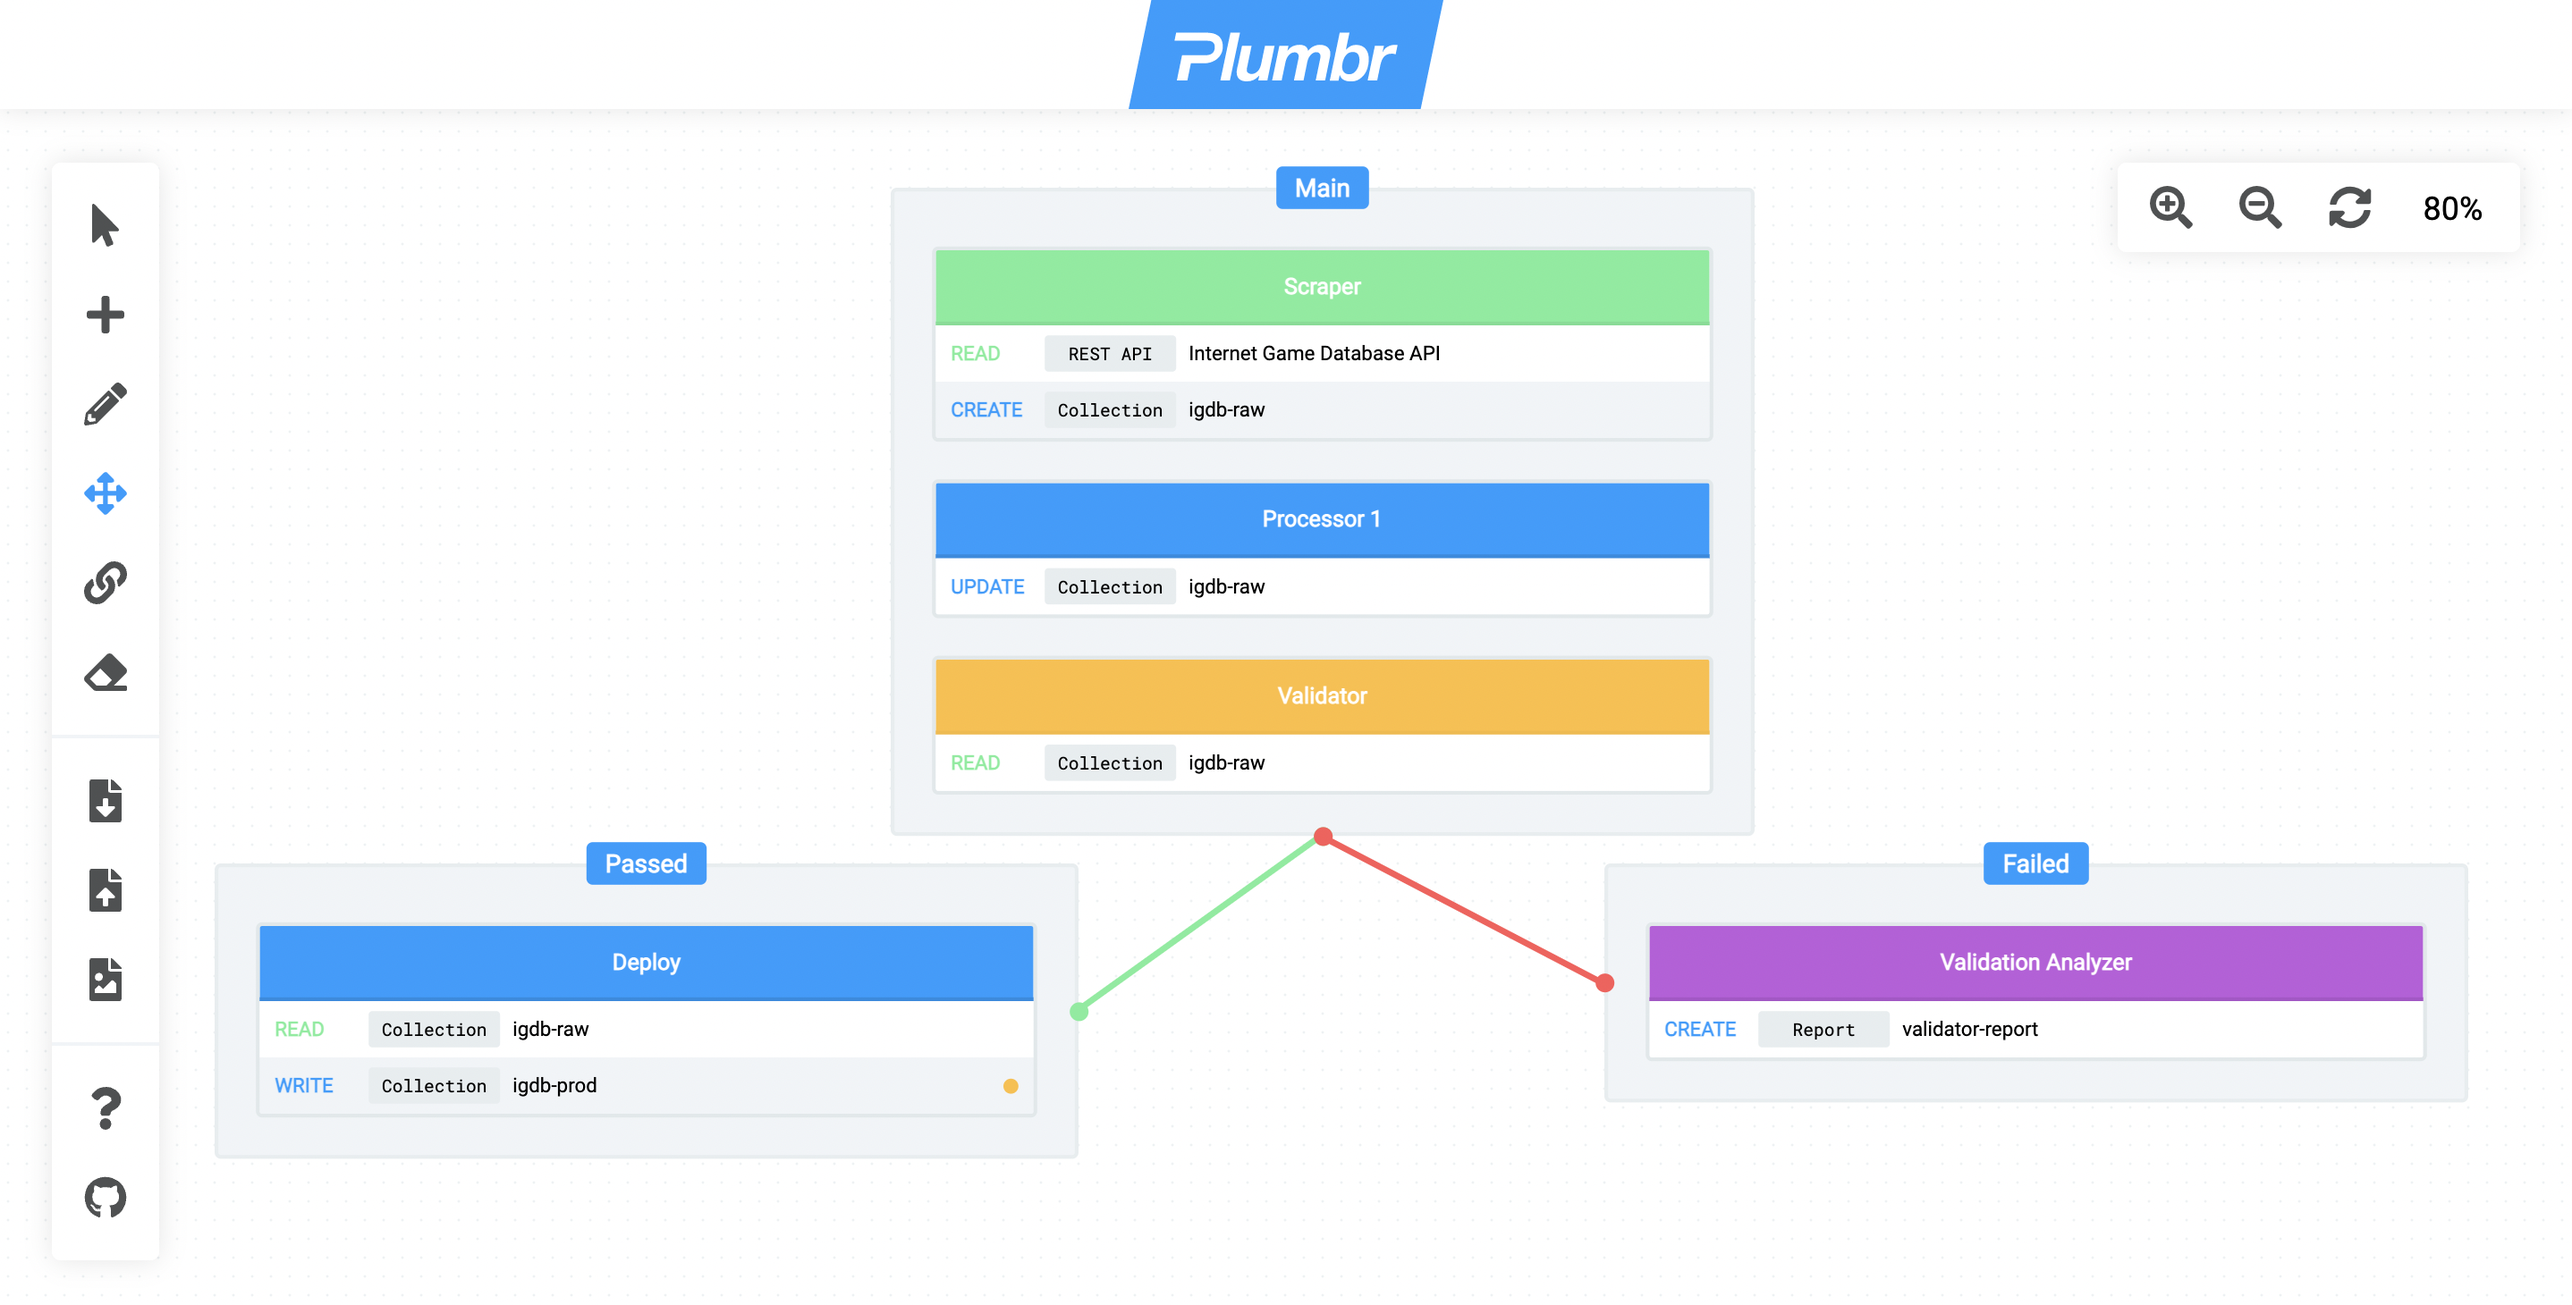
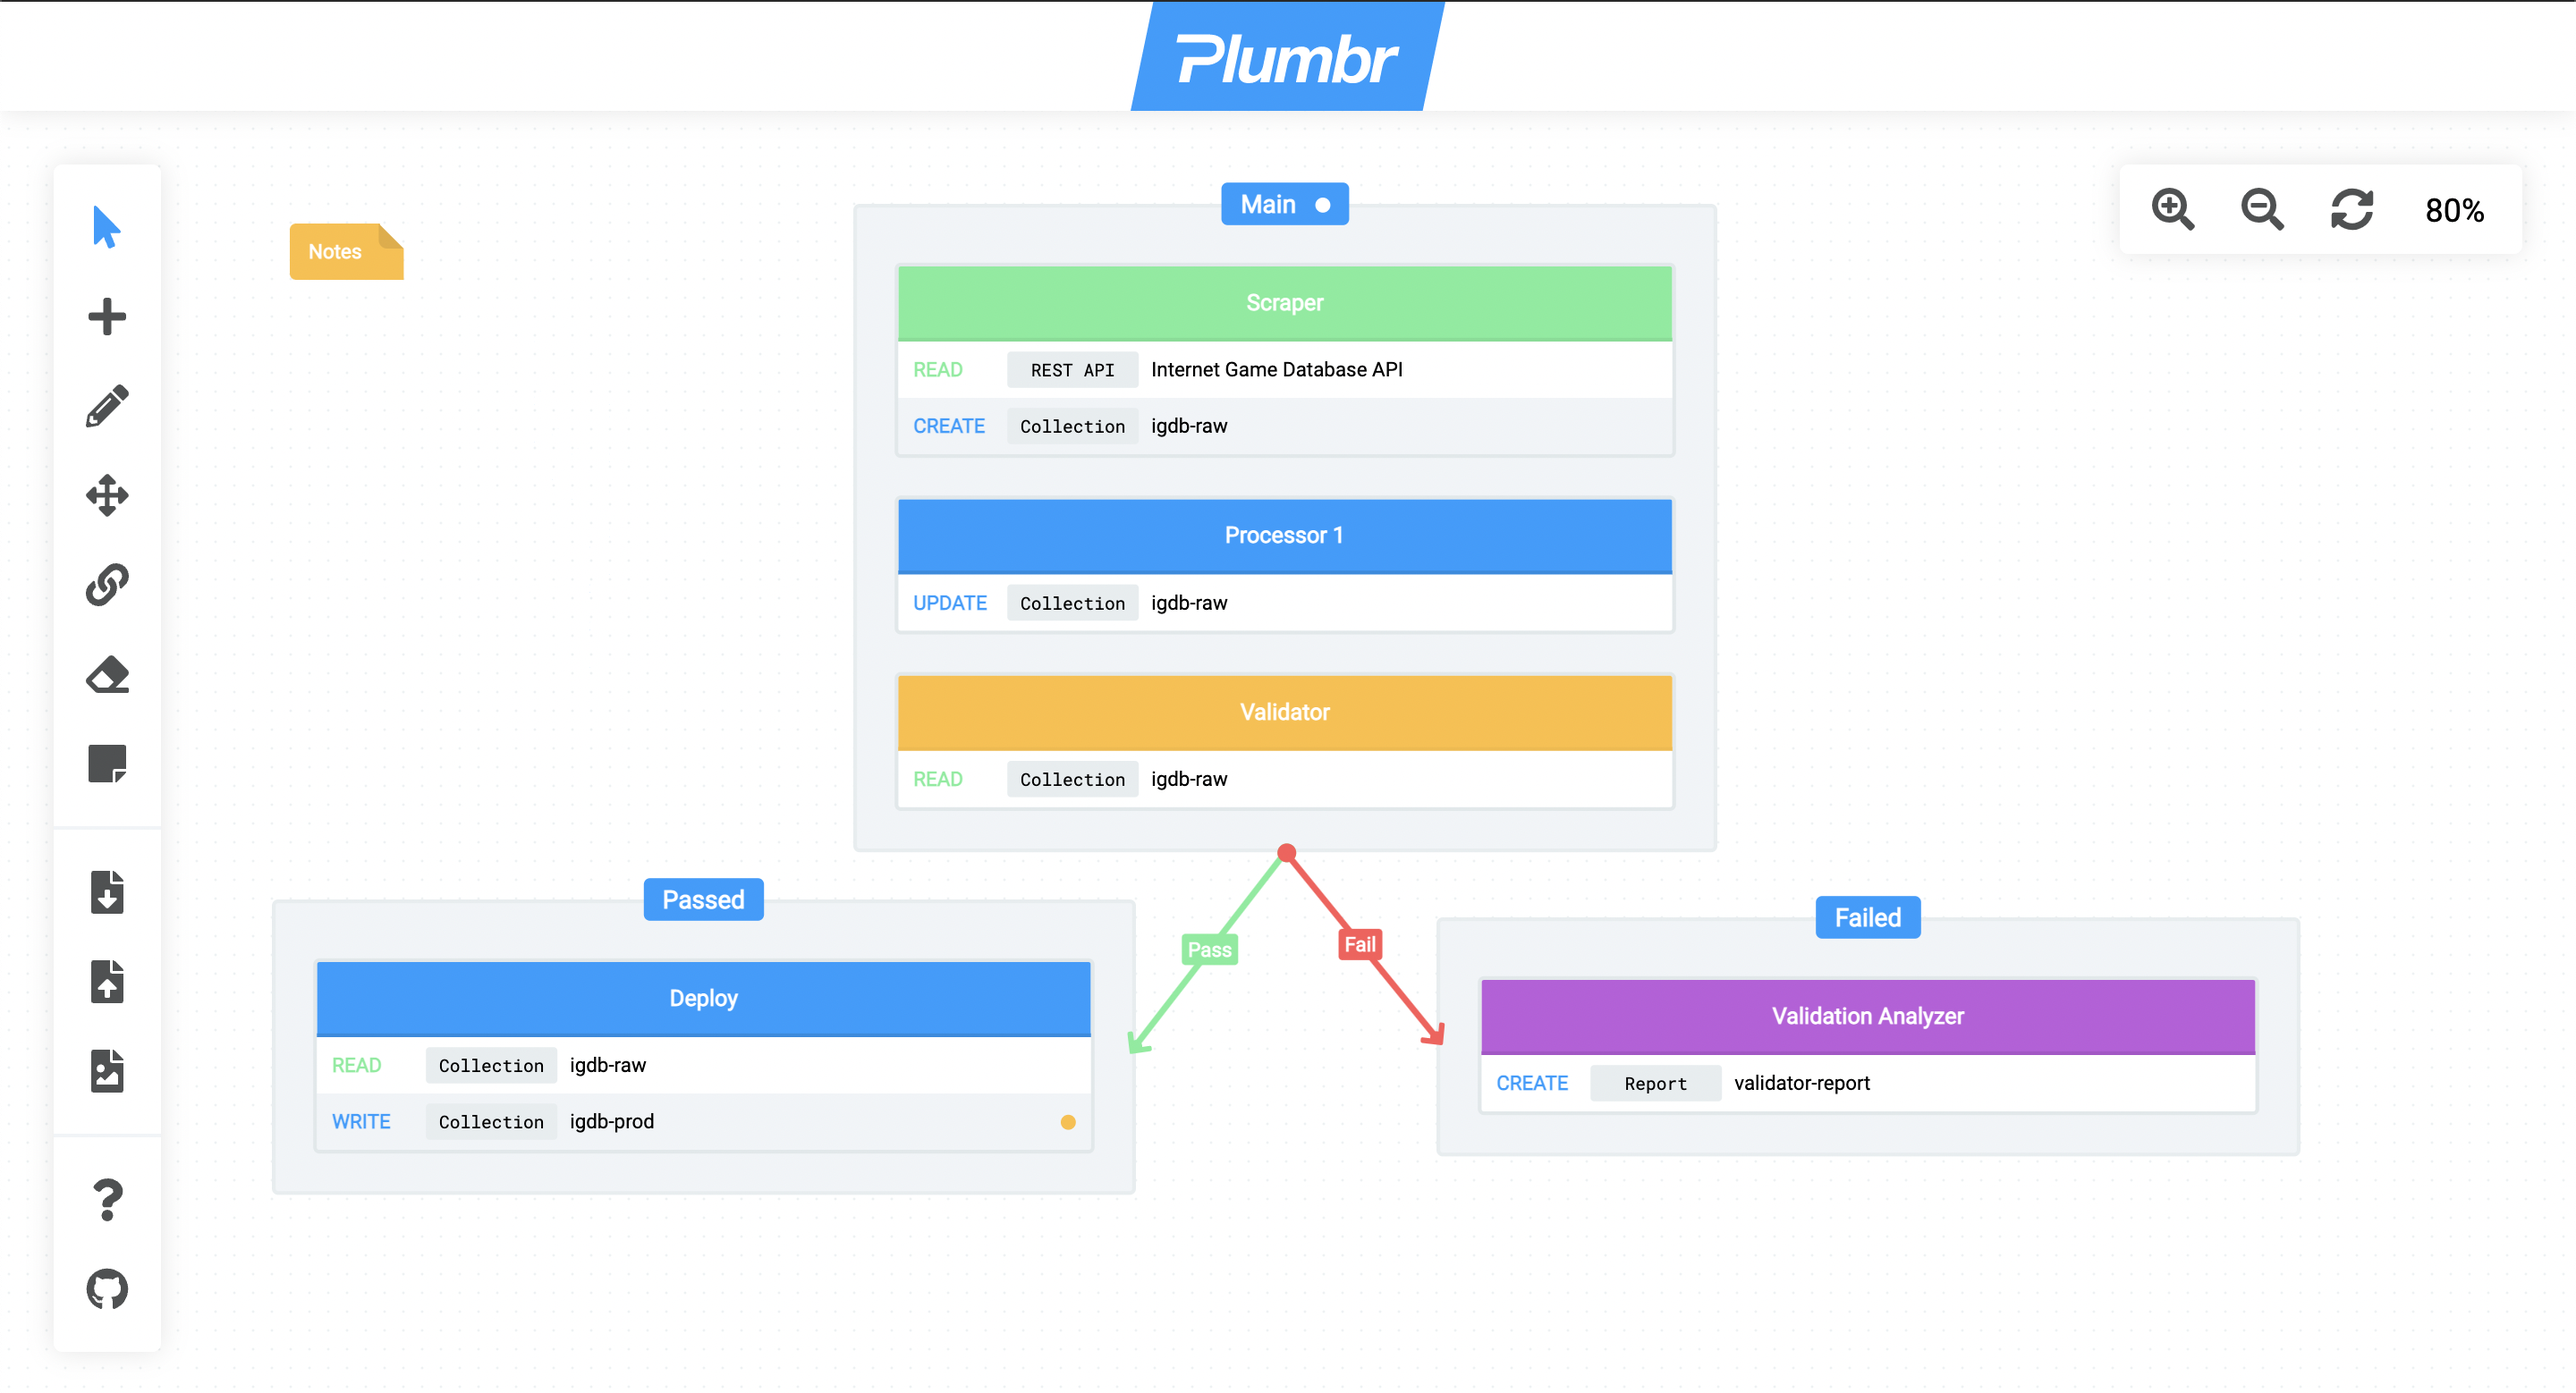
links can now be named; link names will be shown in the middle of the line; link names can be edited using the edit tool; updated help; updated readme; updated repo image.

diff --git a/src/app/components/link/link.component.scss b/src/app/components/link/link.component.scss
@@ -10,14 +10,25 @@
 }
 
 :host.erase-mode:hover .link-node,
-:host.erase-mode:hover .link-line {
+:host.erase-mode:hover .link-line,
+:host.erase-mode:hover .link-line-text {
   cursor: pointer;
   background-color: color('accent-red') !important;
 }
 
 :host.erase-mode:hover .link-node-arrow {
-  cursor: pointer;
   color: color('accent-red') !important;
+}
+
+:host.edit-mode:hover .link-node,
+:host.edit-mode:hover .link-line,
+:host.edit-mode:hover .link-line-text {
+  cursor: pointer;
+  background-color: color('accent-orange') !important;
+}
+
+:host.edit-mode:hover .link-node-arrow {
+  color: color('accent-orange') !important;
 }
 
 .link-node {
@@ -46,8 +57,18 @@
 .link-line {
   position: absolute;
   height: rem(5px);
+  display: flex;
+  align-items: center;
+  justify-content: center;
   transform-origin: top left;
   border-radius: rem(5px);
+}
+
+.link-line-text {
+  padding: rem(3px) rem(5px);
+  border-radius: rem(3px);
+  color: color('gray-lighter');
+  font-weight: bold;
 }
 
 .link-color-0 { background-color: color('accent'); }

diff --git a/src/app/components/modal/modal.component.html b/src/app/components/modal/modal.component.html
@@ -53,6 +53,18 @@
         </div>
       </form>
     </ng-template>
+    <ng-template [ngIf]="currentModal?.type === ModalType.Link">
+      <div class="modal-title">
+        <div class="modal-title-text">Update Link</div>
+      </div>
+      <form #linkForm="ngForm" (ngSubmit)="onFormSubmit(linkForm)">
+        <input name="name" type="text" placeholder="Name" [ngModel]="currentModal?.context?.name ?? ''">
+        <div class="button-group button-group-50">
+          <button class="button-secondary" type="button" (click)="onClose()">Cancel</button>
+          <button class="button-primary" type="submit">Update</button>
+        </div>
+      </form>
+    </ng-template>
     <ng-template [ngIf]="currentModal?.type === ModalType.Module">
       <div class="modal-title">
         <div class="modal-title-text">{{ currentModal.context ? 'Update' : 'New' }} Module</div>

diff --git a/src/app/services/state.service.ts b/src/app/services/state.service.ts
@@ -662,6 +662,18 @@ export class StateService {
 
   }
 
+  public updateLinkText(index: number, name: string, skipHistory?: boolean, skipSave?: boolean) {
+
+    const newValue = this.links;
+
+    newValue[index].name = name;
+
+    if ( ! newValue[index].name ) delete newValue[index].name;
+
+    this._updateLinks(newValue, skipHistory, skipSave);
+
+  }
+
   public onLinksPositionOutdated(observer: (pipelineIndex: number) => void) {
 
     return this._onLinksPositionOutdated.subscribe(observer);
@@ -840,6 +852,7 @@ export interface PipelineLink {
 
   nodes: [number, number];
   color: Color;
+  name?: string;
 
 }
 

diff --git a/src/app/components/link/link.component.html b/src/app/components/link/link.component.html
@@ -30,4 +30,11 @@ class="link-line link-color-{{link.color}}"
   'margin-top': (topShiftMultiplier * (2.5)) + 'px',
   transition: applyTransition ? 'background-color .25s ease-in-out' : 'unset'
 }">
+  <div
+  *ngIf="link.name"
+  class="link-line-text link-color-{{link.color}}"
+  [ngStyle]="{
+    transform: 'rotate(' + -rotation + 'deg)',
+    transition: applyTransition ? 'background-color .25s ease-in-out' : 'unset'
+  }">{{ link.name }}</div>
 </div>

diff --git a/src/app/services/toolbar.service.ts b/src/app/services/toolbar.service.ts
@@ -1048,6 +1048,20 @@ export class ToolbarService {
 
   }
 
+  public editLink(index: number) {
+
+    this._modal.openModal(ModalType.Link, { name: this._state.links[index].name })
+    .then(data => {
+
+      if ( ! data ) return;
+
+      this._state.updateLinkText(index, data.name);
+
+    })
+    .catch(console.error);
+
+  }
+
   public cycleLinkColor(index: number) {
 
     const maxColorValue = (Object.keys(Color).length / 2) - 1;

diff --git a/src/app/components/canvas/canvas.component.html b/src/app/components/canvas/canvas.component.html
@@ -116,7 +116,8 @@ class="canvas"
   [linkIndex]="index"
   [ngClass]="{
     'link-mode': selectedTool === Tools.Link && ! canvasMoveMode,
-    'erase-mode': selectedTool === Tools.Erase && ! canvasMoveMode
+    'erase-mode': selectedTool === Tools.Erase && ! canvasMoveMode,
+    'edit-mode': selectedTool === Tools.Edit && ! canvasMoveMode
   }"
   [ngStyle]="{
     transform: 'scale(' + currentScale + ')',

diff --git a/src/app/components/canvas/canvas.component.ts b/src/app/components/canvas/canvas.component.ts
@@ -693,6 +693,8 @@ export class CanvasComponent implements OnInit {
       this._toolbar.cycleLinkColor(index);
     else if ( this._toolbar.selectedTool === Tools.Erase )
       this._toolbar.deleteLink(index);
+    else if ( this._toolbar.selectedTool === Tools.Edit )
+      this._toolbar.editLink(index);
     else if ( this._toolbar.selectedTool === Tools.Note )
       event.stopImmediatePropagation();
 

diff --git a/src/app/components/modal/modal.component.ts b/src/app/components/modal/modal.component.ts
@@ -148,6 +148,10 @@ export class ModalComponent implements OnInit {
     )
       delete form.value.description;
 
+    // Delete empty link name
+    if ( this.currentModal.type === ModalType.Link && form.value.name === '' )
+      delete form.value.name;
+
     this._modal.closeModal(form.value);
 
   }

diff --git a/src/app/services/modal.service.ts b/src/app/services/modal.service.ts
@@ -67,6 +67,7 @@ export enum ModalType {
   Module,
   ModuleField,
   Note,
+  Link,
   Confirmation,
   Prompt,
   Help,
@@ -117,5 +118,11 @@ export interface NoteContext {
 
   name: string;
   description: string;
+
+}
+
+export interface LinkContext {
+
+  name: string;
 
 }

diff --git a/README.md b/README.md
@@ -1,3 +1,5 @@
+![Plumbr](./plumbr.png)
+
 # What is Plumbr?
 
 Plumbr is used for visualizing the data flow within data pipelines when working with [Chisel data integration framework](https://chiselpowered.com).
@@ -19,7 +21,7 @@ The following tools are available in the top section of the toolbar:
   - **Move tool**: Allows moving components when dragged.
   - **Link tool**: Allows linking pipelines and changing links color.
   - **Erase tool**: Allows deleting components and links when clicked.
-  - **Note tool**: Allows inserting notes on the canvas.
+  - **Note tool**: Allows inserting notes on the canvas and changing notes color.
 
 The following functions are available in the mid section of the toolbar:
   - **Open project**: Opens a Plumbr project (`.flow` files).

diff --git a/src/assets/help.md b/src/assets/help.md
@@ -19,7 +19,7 @@ The following tools are available in the top section of the toolbar:
   - **Move tool**: Allows moving components when dragged.
   - **Link tool**: Allows linking pipelines and changing links color.
   - **Erase tool**: Allows deleting components and links when clicked.
-  - **Note tool**: Allows inserting notes on the canvas.
+  - **Note tool**: Allows inserting notes on the canvas and changing notes color.
 
 The following functions are available in the mid section of the toolbar:
   - **Open project**: Opens a Plumbr project (`.flow` files).
